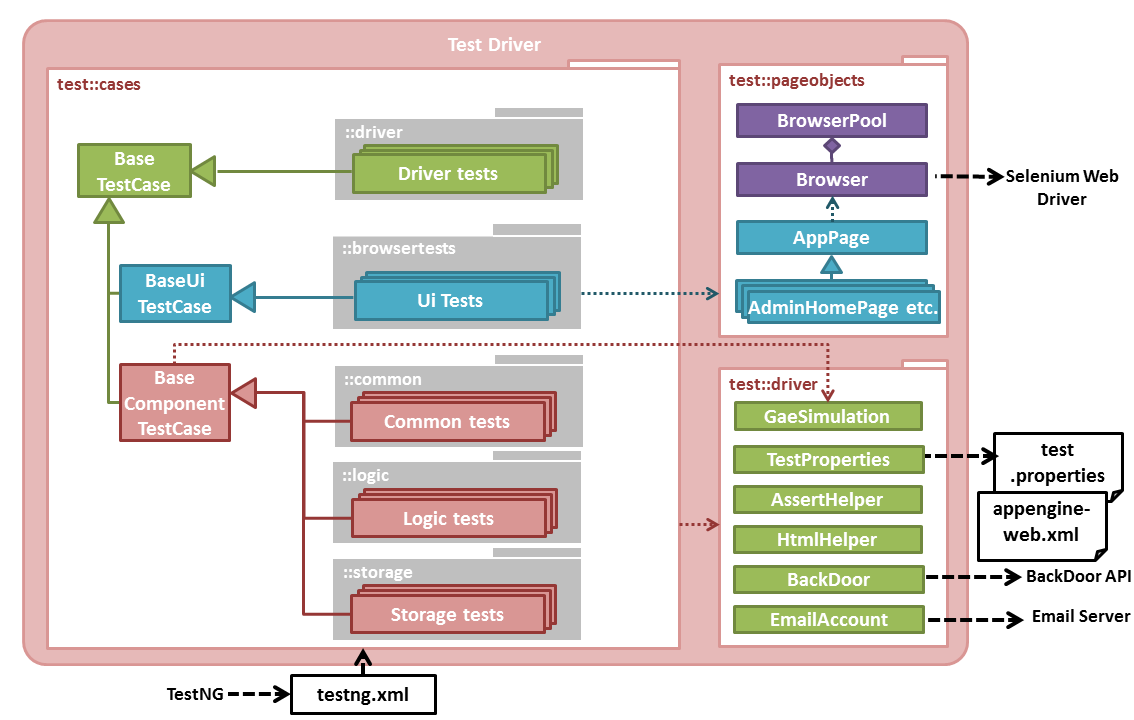
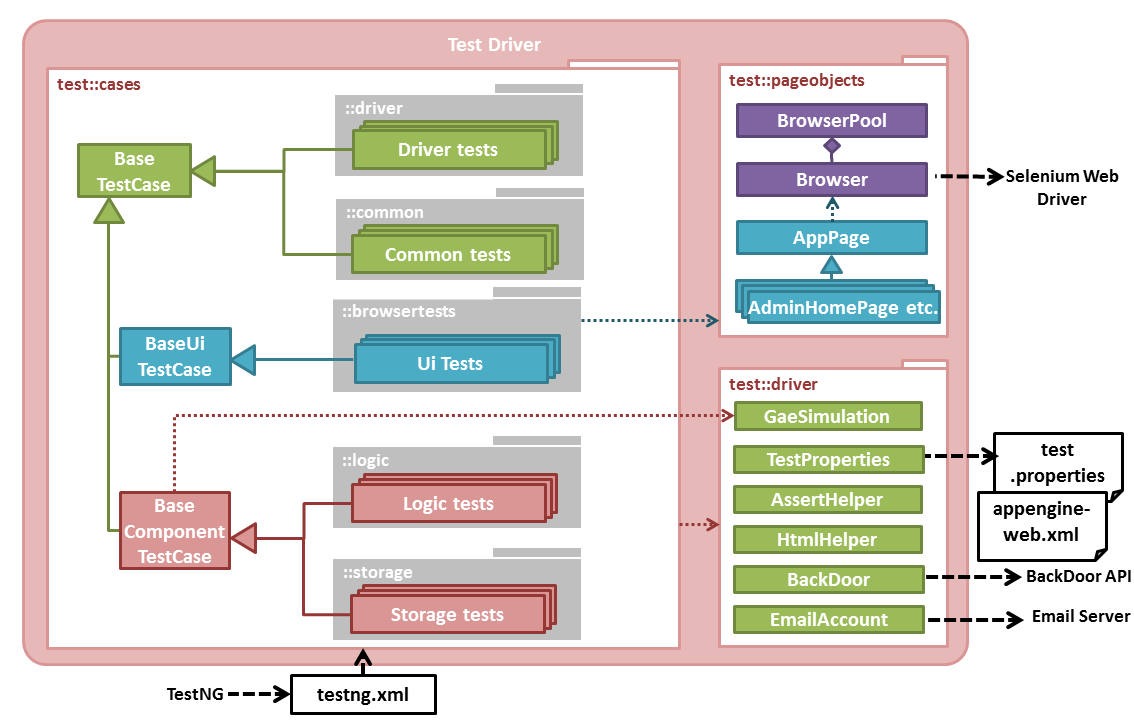
Issue 992: DevMan: test.common package extends BaseTestCase, not BaseComponentTestCase Update Issue 992

diff --git a/src/test/java/teammates/test/cases/common/TeamResultBundleTest.java b/src/test/java/teammates/test/cases/common/TeamResultBundleTest.java
@@ -6,8 +6,9 @@ import teammates.common.datatransfer.StudentAttributes;
 import teammates.common.datatransfer.TeamDetailsBundle;
 import teammates.common.datatransfer.TeamResultBundle;
 import teammates.common.exception.EnrollException;
+import teammates.test.cases.BaseTestCase;
 
-public class TeamResultBundleTest {
+public class TeamResultBundleTest extends BaseTestCase{
 	
 	@Test
 	public void testSortByStudentNameAscending() throws EnrollException{

diff --git a/src/test/java/teammates/test/cases/common/StudentResultBundleTest.java b/src/test/java/teammates/test/cases/common/StudentResultBundleTest.java
@@ -8,8 +8,9 @@ import teammates.common.datatransfer.StudentAttributes;
 import teammates.common.datatransfer.StudentResultBundle;
 import teammates.common.datatransfer.SubmissionAttributes;
 import teammates.common.exception.EnrollException;
+import teammates.test.cases.BaseTestCase;
 
-public class StudentResultBundleTest {
+public class StudentResultBundleTest extends BaseTestCase{
 
 	@Test
 	public void testSortOutgoingByStudentNameAscending()
